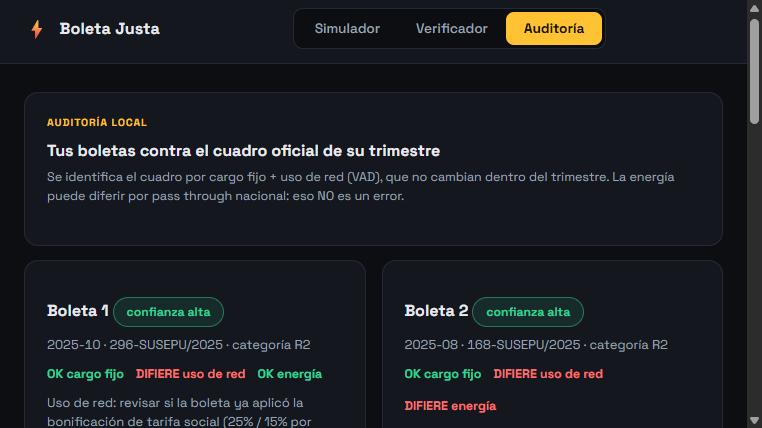
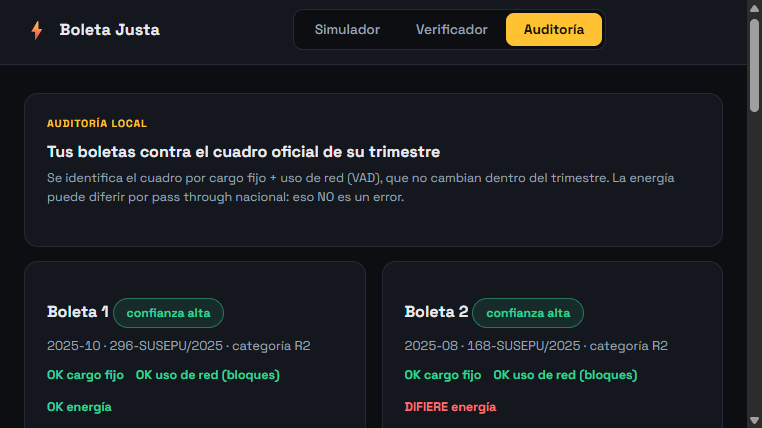
fix(fase-1): uso de red por bloques acumulativos (5/5 OK), TS en renglon propio, proyecto cerrado

diff --git a/web/index.html b/web/index.html
@@ -531,9 +531,10 @@ function cargarAuditoria() {
       return `<div class="card aud-card">
         <h3>Boleta ${r.boleta} <span class="badge confianza-${r.confianza}">confianza ${r.confianza}</span></h3>
         <div class="dec-dias num">${r.mes || '—'} · ${r.resolucion} · categoría ${r.categoria_tabla || '?'}</div>
-        <div class="fila-check">${chk(r.cargo_fijo_ok, 'cargo fijo')}${chk(r.uso_red_ok, 'uso de red')}` +
+        <div class="fila-check">${chk(r.cargo_fijo_ok, 'cargo fijo')}${chk(r.uso_red_ok, r.uso_red_metodo === 'bloques' ? 'uso de red (bloques)' : 'uso de red')}` +
         `${chk(r.energia_ok, 'energía')}</div>
-        ${!r.uso_red_ok ? '<div class="dec-dias">Uso de red: revisar si la boleta ya aplicó la bonificación de tarifa social (25% / 15% por bloques) sobre el precio pleno.</div>' : ''}
+        ${r.uso_red_metodo === 'bloques' ? '<div class="dec-dias">Uso de red: precio ponderado por bloques de consumo (coincide con el cuadro); la bonificación TS figura en su propio renglón.</div>' : ''}
+        ${!r.uso_red_ok ? '<div class="dec-dias">Uso de red: comparar con el cuadro vigente.</div>' : ''}
         ${diff}${aviso}
         <div class="dec-dias">Desvío VAD ${r.score_vad_pct}% · ` +
         `${r.punitorios_signal ? (r.punitorios_en_vigencia ?

diff --git a/src/auditoria.py b/src/auditoria.py
@@ -91,6 +91,34 @@ def _cercana(cats: list[dict], clave: str, valor: float | None, tol_pct=0.3) -> 
     return None
 
 
+def kwh_de(e: dict) -> float | None:
+    consumo, precio = e.get("cargo_consumo"), e.get("precio_consumo")
+    if consumo and precio:
+        return round(consumo / precio, 3)
+    return None
+
+
+def precio_red_por_bloques(cats: list[dict], kwh: float | None) -> float | None:
+    """EJESA cobra el uso de red por bloques acumulativos (R1 0-150 kWh,
+    R2 150-250, R2-bis 250-350, R3 350-500...). El precio unitario impreso
+    en la boleta es el promedio ponderado de esos bloques a precio pleno;
+    la bonificación de tarifa social figura en un renglón aparte."""
+    if not kwh or kwh <= 0:
+        return None
+    total = 0.0
+    anterior = 0.0
+    for c in cats:
+        tope = c["hasta_kwh"]
+        superior = float(tope) if tope is not None else kwh
+        bloque = max(0.0, min(kwh, superior) - anterior)
+        if bloque:
+            total += bloque * c["uso_red_kwh"]
+            anterior = superior
+        if anterior >= kwh:
+            break
+    return round(total / kwh, 6)
+
+
 def auditar(boleta: dict, tablas: list[dict]) -> dict:
     mes = mes_de(boleta.get("fecha_emision"))
     tabla, score, confianza = seleccionar_tabla(boleta, tablas)
@@ -104,6 +132,12 @@ def auditar(boleta: dict, tablas: list[dict]) -> dict:
     cat_fijo = _cercana(cats, "cargo_fijo", e.get("cargo_fijo"))
     cat_red = _cercana(cats, "uso_red_kwh", e.get("precio_red"))
     cat_energia = _cercana(cats, "energia_plena_kwh", e.get("precio_consumo"))
+    kwh = kwh_de(e)
+    red_bloques = precio_red_por_bloques(cats, kwh)
+    red_por_bloques = bool(
+        red_bloques and e.get("precio_red") and
+        abs(e["precio_red"] - red_bloques) <= red_bloques * 0.005
+    )
 
     cat = cat_fijo or cat_red or cat_energia
     diff_energia = 0.0
@@ -122,7 +156,9 @@ def auditar(boleta: dict, tablas: list[dict]) -> dict:
         "resolucion_por_fecha": tabla_fecha["resolucion"] if tabla_fecha else None,
         "categoria_tabla": cat["id"] if cat else None,
         "cargo_fijo_ok": cat_fijo is not None,
-        "uso_red_ok": cat_red is not None,
+        "uso_red_ok": cat_red is not None or red_por_bloques,
+        "uso_red_metodo": "bloques" if red_por_bloques else ("categoria" if cat_red else "no"),
+        "bonif_ts_presente": bool(e.get("bonif_tarifa_social")),
         "energia_ok": cat_energia is not None,
         "energia_diff_pct": diff_energia if not cat_energia else 0.0,
         "nota": tabla.get("nota_pass_through", ""),

diff --git a/pruebas/test_auditoria.py b/pruebas/test_auditoria.py
@@ -63,12 +63,22 @@ def main():
     b8 = {**b, "fecha_emision": "05/02/2026", "punitorios_detectados": True}
     check(not au.auditar(b8, tablas)["punitorios_en_vigencia"], "punitorios fuera de vigencia")
 
+    # uso de red por bloques: el precio impreso es promedio ponderado, no una categoria
+    cats227 = next(t for t in tablas if t["resolucion"].startswith("227"))["t1_residencial"]["categorias"]
+    esperado = au.precio_red_por_bloques(cats227, 189.5)
+    b9 = {**b, "energia": {"cargo_fijo": 4772.0, "cargo_consumo": 189.5 * 141.0,
+                           "precio_red": esperado, "precio_consumo": 141.0,
+                           "bonif_tarifa_social": -100.0}}
+    r9 = au.auditar(b9, tablas)
+    check(r9["uso_red_ok"] and r9["uso_red_metodo"] == "bloques", "uso de red por bloques")
+    check(r9["bonif_ts_presente"], "bonificacion TS en renglon aparte")
+
     if fallos:
         print(f"FALLOS ({len(fallos)}):")
         for f in fallos:
             print(" -", f)
         sys.exit(1)
-    print("OK: 4 cuadros, selección por mes, VAD exacto, pass through julio, mes sin cuadro")
+    print("OK: 6 cuadros, selección por mes, VAD exacto, pass through julio, mes sin cuadro, bloques de red")
 
 
 if __name__ == "__main__":

diff --git a/README.md b/README.md
@@ -40,8 +40,12 @@ vecinales juntadas. Ver `docs/marco-normativo.md` (todo con fuentes).
   componentes VAD (cargo fijo + uso de red, estables en el trimestre), NO por
   fecha de emisión: las 5 boletas calzaron con confianza alta y coincidencia
   exacta de VAD; la energía difiere 2-4% dentro del trimestre por pass
-  through nacional (esperado). La firma de uso de red en dos boletas sugiere
-  bonificación TS aplicada en el renglón (a verificar con la línea de bonificación).
+  through nacional (esperado). Uso de red resuelto: el precio impreso es el
+  promedio ponderado por bloques de consumo (R1 0-150 kWh, R2 150-250,
+  R2-bis 250-350...), NO el precio de una sola categoría. Verificado en 5/5
+  con aritmética exacta p. ej. 150×69,2325 + 39,5×70,3651 = 13.164,30
+  (Res. 296) y 150×65,0152 + 55×66,0788 = 13.386,62 (Res. 168). La bonificación
+  TS está en el renglón propio, no descontada del precio unitario.
 - **Panel con pestaña "Auditoría"**: 5 tarjetas con resolución elegida,
   confianza, chips OK/DIFIERE, notas de pass through y señales de punitorios.
   Endpoint `GET /api/auditoria` devuelve SOLO campos de comparación: nunca
